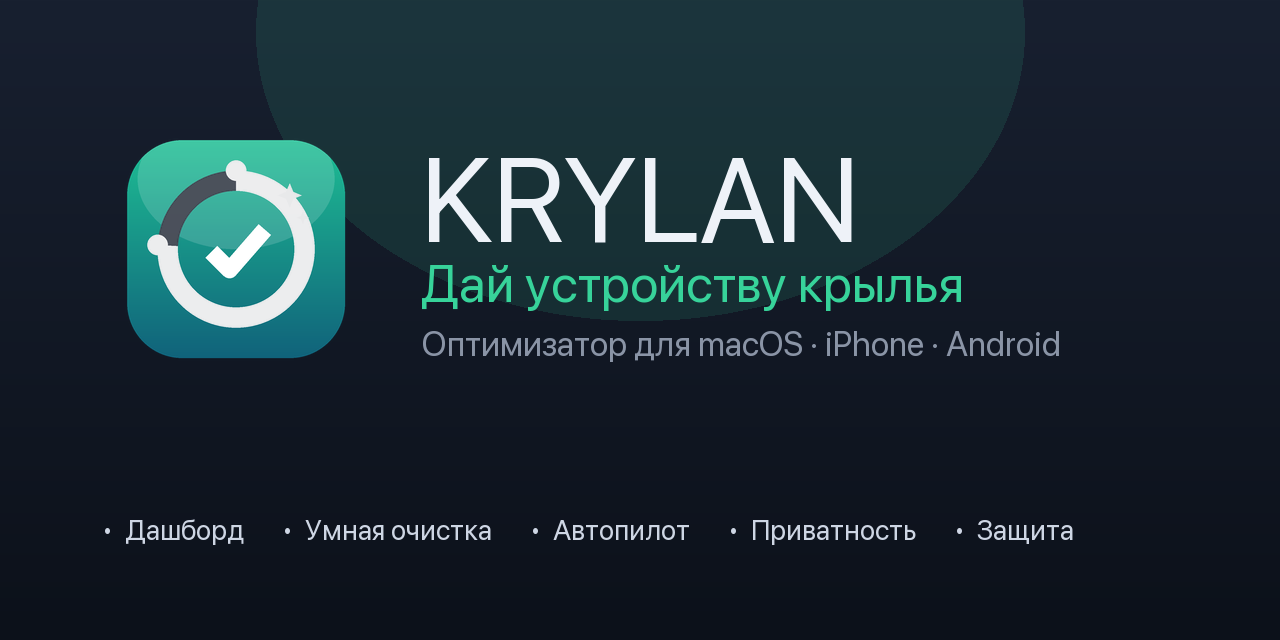
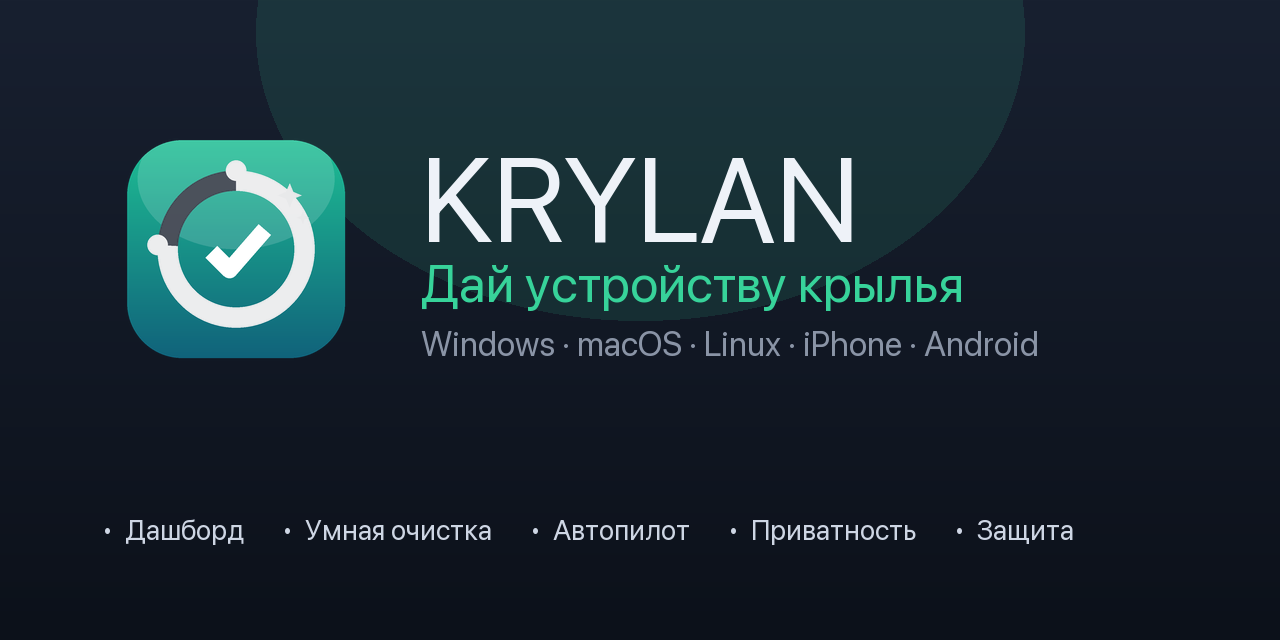
KRYLAN Desktop (Windows/macOS/Linux, psutil) + витрина и доки

Changed region(s): [[0.3125, 0.5, 0.8438, 0.5625]]

diff --git a/docs/index.html b/docs/index.html
@@ -81,7 +81,8 @@
   <section style="padding:18px 0 0">
     <h2 style="text-align:center;font-size:26px;margin-bottom:18px">Экосистема KRYLAN</h2>
     <div class="grid">
-      <div class="card"><div class="e">💻</div><h3>macOS — доступно</h3><p>CleanMac, universal (Intel + Apple Silicon). Полный набор инструментов оптимизации.</p></div>
+      <div class="card"><div class="e">🍏</div><h3>macOS — доступно</h3><p>CleanMac, universal (Intel + Apple Silicon). Полный набор инструментов оптимизации.</p></div>
+      <div class="card"><div class="e">🪟</div><h3>Windows / Linux — доступно</h3><p>KRYLAN Desktop (Python): мониторинг и очистка кэшей. Один код для всех ПК.</p></div>
       <div class="card"><div class="e">📱</div><h3>iPhone — скоро</h3><p>KRYLAN для iOS: дубликаты фото, контакты, анализ хранилища (в рамках политик App Store).</p></div>
       <div class="card"><div class="e">🤖</div><h3>Android — скоро</h3><p>KRYLAN для Android: кэши приложений, крупные файлы, дубликаты.</p></div>
     </div>

diff --git a/krylan-desktop/krylan.py b/krylan-desktop/krylan.py
@@ -1,0 +1,238 @@
+#!/usr/bin/env python3
+# -*- coding: utf-8 -*-
+"""
+KRYLAN Desktop — кросс-платформенный оптимизатор: Windows · macOS · Linux.
+«Дай устройству крылья». Создатель: Кырлан Александр Сергеевич.
+Зависимости: psutil, send2trash.  Запуск: python krylan.py
+"""
+import os, sys, platform, threading, queue, math
+import tkinter as tk
+from tkinter import messagebox
+import psutil
+from send2trash import send2trash
+
+VERSION = "1.0.0"
+SYSTEM = platform.system()           # Windows / Darwin / Linux
+HOME = os.path.expanduser("~")
+
+# ---------- палитра ----------
+BG0, SIDEBAR, GLASS, TRACK, TEXT, MUTED = "#11151d", "#0e1219", "#222b3a", "#333d4e", "#eef2f8", "#8a94a6"
+GREEN, BLUE, YELLOW, RED, PURPLE = "#37d39a", "#4b8cf9", "#f6bb45", "#f2685f", "#a78bfa"
+
+def load_color(p): return GREEN if p < 60 else (YELLOW if p < 85 else RED)
+
+def human(n):
+    n = float(n)
+    for u in ("Б","КБ","МБ","ГБ","ТБ"):
+        if n < 1024 or u == "ТБ":
+            return f"{n:.0f} {u}" if u == "Б" else f"{n:.1f} {u}"
+        n /= 1024
+
+def os_label():
+    return {"Windows":"Windows","Darwin":"macOS","Linux":"Linux"}.get(SYSTEM, SYSTEM)
+
+# ---------- цели очистки по ОС ----------
+def cleanup_targets():
+    t = []
+    if SYSTEM == "Windows":
+        temp = os.environ.get("TEMP") or os.path.join(HOME, "AppData", "Local", "Temp")
+        local = os.environ.get("LOCALAPPDATA") or os.path.join(HOME, "AppData", "Local")
+        t = [("Временные файлы", temp),
+             ("Кэш Google Chrome", os.path.join(local, "Google", "Chrome", "User Data", "Default", "Cache")),
+             ("Кэш Microsoft Edge", os.path.join(local, "Microsoft", "Edge", "User Data", "Default", "Cache")),
+             ("Кэш Windows Explorer", os.path.join(local, "Microsoft", "Windows", "Explorer"))]
+    elif SYSTEM == "Darwin":
+        t = [("Кэш приложений", os.path.join(HOME, "Library/Caches")),
+             ("Логи", os.path.join(HOME, "Library/Logs")),
+             ("Кэш Chrome", os.path.join(HOME, "Library/Caches/Google"))]
+    else:  # Linux
+        t = [("Кэш (~/.cache)", os.path.join(HOME, ".cache")),
+             ("Эскизы", os.path.join(HOME, ".cache/thumbnails")),
+             ("Логи (~/.local/state)", os.path.join(HOME, ".local/state"))]
+    return [(n, p) for n, p in t if os.path.isdir(p)]
+
+def dir_size(p):
+    total = 0
+    try:
+        for root, _, files in os.walk(p):
+            for f in files:
+                try: total += os.path.getsize(os.path.join(root, f))
+                except Exception: pass
+    except Exception: pass
+    return total
+
+
+class Krylan(tk.Tk):
+    def __init__(self):
+        super().__init__()
+        self.title("KRYLAN")
+        self.geometry("860x560"); self.minsize(820, 520)
+        self.configure(bg=BG0)
+        self.q = queue.Queue()
+        self.page = None
+        self.disp = {"cpu":0,"ram":0,"disk":0,"batt":0}
+        self.tgt = dict(self.disp)
+        self.info = {}
+        self.found = {}
+        self._build(); self.nav("dash")
+        threading.Thread(target=self._sampler, daemon=True).start()
+        self.after(80, self._poll); self.after(33, self._animate)
+
+    def _build(self):
+        side = tk.Frame(self, bg=SIDEBAR, width=200); side.pack(side="left", fill="y"); side.pack_propagate(False)
+        tk.Label(side, text="  🪽 KRYLAN", bg=SIDEBAR, fg=TEXT, font=("Segoe UI", 18, "bold")).pack(anchor="w", pady=(20,0), padx=12)
+        tk.Label(side, text="  Дай устройству крылья", bg=SIDEBAR, fg=GREEN, font=("Segoe UI", 9, "bold")).pack(anchor="w", padx=12)
+        tk.Label(side, text=f"  {os_label()} · v{VERSION}", bg=SIDEBAR, fg=MUTED, font=("Segoe UI", 9)).pack(anchor="w", padx=12, pady=(0,16))
+        self.nav_btns = {}
+        for key, label in [("dash","📊  Дашборд"),("clean","🧽  Очистка"),("about","ℹ  О программе")]:
+            b = tk.Label(side, text="   "+label, bg=SIDEBAR, fg=TEXT, font=("Segoe UI", 12), anchor="w", padx=10, pady=11, cursor="hand2")
+            b.pack(fill="x"); b.bind("<Button-1>", lambda e,k=key: self.nav(k)); self.nav_btns[key] = b
+        self.main = tk.Frame(self, bg=BG0); self.main.pack(side="left", fill="both", expand=True)
+
+    def nav(self, key):
+        self.page = key
+        for k,b in self.nav_btns.items(): b.configure(bg=GLASS if k==key else SIDEBAR)
+        for w in self.main.winfo_children(): w.destroy()
+        {"dash":self.show_dash, "clean":self.show_clean, "about":self.show_about}[key]()
+
+    # ---------- кольца ----------
+    def _ring(self, c, cx, cy, r, frac, color, w, val, label):
+        c.create_oval(cx-r,cy-r,cx+r,cy+r, outline=TRACK, width=w)
+        if frac > 0.01:
+            c.create_arc(cx-r,cy-r,cx+r,cy+r, start=90, extent=-frac*359.9, style="arc", outline=color, width=w)
+        c.create_text(cx,cy-3, text=val, fill=TEXT, font=("Segoe UI", 18, "bold"))
+        c.create_text(cx,cy+r+14, text=label, fill=MUTED, font=("Segoe UI", 10))
+
+    def show_dash(self):
+        tk.Label(self.main, text="Дашборд", bg=BG0, fg=TEXT, font=("Segoe UI", 20, "bold")).pack(anchor="w", padx=24, pady=(18,0))
+        tk.Label(self.main, text=f"Система: {os_label()} · в реальном времени", bg=BG0, fg=MUTED, font=("Segoe UI", 10)).pack(anchor="w", padx=24, pady=(0,8))
+        self.cv = tk.Canvas(self.main, bg=BG0, highlightthickness=0); self.cv.pack(fill="both", expand=True, padx=20, pady=10)
+
+    def _draw_dash(self):
+        if not (self.page=="dash" and self.cv.winfo_exists()): return
+        c = self.cv; c.delete("all"); W = c.winfo_width() or 640
+        rings = [("cpu","CPU",f'{int(self.disp["cpu"])}%'),("ram","ОЗУ",f'{int(self.disp["ram"])}%'),
+                 ("disk","ДИСК",f'{int(self.disp["disk"])}%'),("batt","БАТАРЕЯ",
+                  (f'{int(self.disp["batt"])}%' if self.info.get("batt") is not None else "—"))]
+        gap = W/4
+        for i,(k,lbl,val) in enumerate(rings):
+            inv = (k == "batt")
+            p = self.disp[k]; col = load_color(100-p) if inv else load_color(p)
+            self._ring(c, int(gap*i+gap/2), 70, 48, min(1,p/100), col, 12, val, lbl)
+        # карточка инфо
+        c.create_rectangle(20,150,W-20,260, fill=GLASS, outline=GLASS)
+        info = [f"ОС: {self.info.get('os','—')}",
+                f"Диск: свободно {human(self.info.get('disk_free',0))} из {human(self.info.get('disk_total',0))}",
+                f"ОЗУ: {human(self.info.get('ram_total',0))} всего, занято {int(self.disp['ram'])}%",
+                f"CPU: {self.info.get('cores','?')} ядер"]
+        for i,line in enumerate(info):
+            c.create_text(40,175+i*22, anchor="w", fill=TEXT, font=("Segoe UI", 11), text=line)
+        c.configure(scrollregion=(0,0,W,280))
+
+    # ---------- очистка ----------
+    def show_clean(self):
+        tk.Label(self.main, text="Очистка", bg=BG0, fg=TEXT, font=("Segoe UI", 20, "bold")).pack(anchor="w", padx=24, pady=(18,2))
+        tk.Label(self.main, text="Временные файлы и кэши. Всё уходит в Корзину (обратимо).", bg=BG0, fg=MUTED, font=("Segoe UI", 10)).pack(anchor="w", padx=24, pady=(0,10))
+        wrap = tk.Frame(self.main, bg=GLASS); wrap.pack(fill="x", padx=24)
+        self.cl_vars = {}; self.cl_lbl = {}
+        for i,(name,p) in enumerate(cleanup_targets()):
+            row = tk.Frame(wrap, bg=GLASS); row.pack(fill="x", padx=14, pady=6)
+            v = tk.BooleanVar(value=True); self.cl_vars[i] = (v, name, p)
+            tk.Checkbutton(row, text="  "+name, variable=v, bg=GLASS, fg=TEXT, selectcolor=BG0,
+                           activebackground=GLASS, activeforeground=TEXT, font=("Segoe UI", 11), anchor="w").pack(side="left")
+            sl = tk.Label(row, text="…", bg=GLASS, fg=GREEN, font=("Segoe UI", 11, "bold")); sl.pack(side="right"); self.cl_lbl[i] = sl
+        bar = tk.Frame(self.main, bg=BG0); bar.pack(fill="x", padx=24, pady=14)
+        self.cl_total = tk.Label(bar, text="Готово к анализу", bg=BG0, fg=TEXT, font=("Segoe UI", 12, "bold")); self.cl_total.pack(side="left")
+        self._btn(bar, "Очистить", GREEN, self.run_clean).pack(side="right", padx=(8,0))
+        self._btn(bar, "Анализ", BLUE, self.run_analyze).pack(side="right")
+
+    def _btn(self, parent, text, color, cmd):
+        b = tk.Label(parent, text="  "+text+"  ", bg=color, fg="white", font=("Segoe UI", 12, "bold"), padx=14, pady=7, cursor="hand2")
+        b.bind("<Button-1>", lambda e: cmd()); return b
+
+    def run_analyze(self):
+        self.cl_total.configure(text="Анализирую…")
+        threading.Thread(target=self._analyze_w, daemon=True).start()
+
+    def _analyze_w(self):
+        self.found = {}; total = 0
+        for i,(v,name,p) in self.cl_vars.items():
+            sz = dir_size(p); self.found[i] = (p, sz); total += sz
+            self.q.put(("clsize", i, sz))
+        self.q.put(("cltotal", total, None))
+
+    def run_clean(self):
+        if not self.found: messagebox.showinfo("KRYLAN", "Сначала «Анализ»."); return
+        sel = [i for i,(v,n,p) in self.cl_vars.items() if v.get()]
+        if not messagebox.askyesno("KRYLAN", "Переместить выбранные кэши в Корзину?"): return
+        self.cl_total.configure(text="Очищаю…")
+        threading.Thread(target=self._clean_w, args=(sel,), daemon=True).start()
+
+    def _clean_w(self, sel):
+        freed = 0
+        for i in sel:
+            p, sz = self.found.get(i, (None, 0))
+            if not p or not os.path.isdir(p): continue
+            for name in os.listdir(p):
+                fp = os.path.join(p, name)
+                try: send2trash(fp); freed += 0
+                except Exception: pass
+            freed += sz
+        self.q.put(("cldone", freed, None))
+
+    # ---------- о программе ----------
+    def show_about(self):
+        tk.Label(self.main, text="🪽 KRYLAN", bg=BG0, fg=TEXT, font=("Segoe UI", 24, "bold")).pack(anchor="w", padx=24, pady=(26,0))
+        tk.Label(self.main, text="«Дай устройству крылья»", bg=BG0, fg=GREEN, font=("Segoe UI", 13, "bold")).pack(anchor="w", padx=24)
+        for line in [f"Версия {VERSION} · {os_label()}", "Создатель: Кырлан Александр Сергеевич", "",
+                     "Кросс-платформенный оптимизатор: Windows · macOS · Linux.",
+                     "Мониторинг CPU/ОЗУ/диск/батарея и безопасная очистка кэшей",
+                     "(всё уходит в Корзину). Часть экосистемы KRYLAN (+iPhone, Android)."]:
+            tk.Label(self.main, text=line, bg=BG0, fg=(TEXT if "Создатель" in line else MUTED),
+                     font=("Segoe UI", 11)).pack(anchor="w", padx=24)
+
+    # ---------- метрики ----------
+    def _sampler(self):
+        import time
+        vm = psutil.virtual_memory()
+        self.info = {"os": f"{platform.system()} {platform.release()}",
+                     "ram_total": vm.total, "cores": psutil.cpu_count(logical=True)}
+        while True:
+            try:
+                cpu = psutil.cpu_percent(interval=0.5)
+                ram = psutil.virtual_memory().percent
+                du = psutil.disk_usage(HOME if SYSTEM != "Windows" else os.environ.get("SystemDrive", "C:") + "\\")
+                b = psutil.sensors_battery()
+                self.q.put(("stats", {"cpu":cpu,"ram":ram,"disk":du.percent,
+                            "batt": (b.percent if b else None),
+                            "disk_free": du.free, "disk_total": du.total}, None))
+            except Exception: pass
+            time.sleep(1.2)
+
+    def _animate(self):
+        if self.page=="dash" and hasattr(self,"cv") and self.cv.winfo_exists():
+            for k in self.disp: self.disp[k] += (self.tgt[k]-self.disp[k])*0.25
+            self._draw_dash()
+        self.after(33, self._animate)
+
+    def _poll(self):
+        try:
+            while True:
+                kind,a,b = self.q.get_nowait()
+                if kind == "stats":
+                    self.tgt.update({"cpu":a["cpu"],"ram":a["ram"],"disk":a["disk"],"batt":a["batt"] or 0})
+                    self.info["batt"] = a["batt"]; self.info["disk_free"]=a["disk_free"]; self.info["disk_total"]=a["disk_total"]
+                    self.info["os"] = self.info.get("os","")
+                elif kind == "clsize":
+                    if a in self.cl_lbl: self.cl_lbl[a].configure(text=human(b))
+                elif kind == "cltotal": self.cl_total.configure(text=f"Найдено: {human(a)}")
+                elif kind == "cldone":
+                    self.cl_total.configure(text=f"Очищено: {human(a)} → Корзина")
+                    messagebox.showinfo("KRYLAN", f"В Корзину: {human(a)}."); self.found = {}
+        except queue.Empty: pass
+        except Exception: pass
+        self.after(120, self._poll)
+
+
+if __name__ == "__main__":
+    Krylan().mainloop()

diff --git a/make_promo.py b/make_promo.py
@@ -44,7 +44,7 @@ def banner(w, h, out, title_sz, slogan_sz, with_features=True):
     d.text((tx, iy + int(isz*0.04) + int(title_sz*1.05)), "Дай устройству крылья",
            font=font(slogan_sz), fill=(55, 211, 154))
     d.text((tx, iy + int(isz*0.04) + int(title_sz*1.05) + int(slogan_sz*1.4)),
-           "Оптимизатор для macOS · iPhone · Android", font=font(int(slogan_sz*0.66)), fill=(138, 148, 166))
+           "Windows · macOS · Linux · iPhone · Android", font=font(int(slogan_sz*0.66)), fill=(138, 148, 166))
     if with_features:
         feats = ["Дашборд", "Умная очистка", "Автопилот", "Приватность", "Защита"]
         fy = int(h*0.80); fx = int(w*0.08); fnt = font(int(h*0.045))

diff --git a/krylan-desktop/README.md b/krylan-desktop/README.md
@@ -1,0 +1,46 @@
+# 🪽 KRYLAN Desktop — Windows · macOS · Linux
+
+Кросс-платформенный оптимизатор: мониторинг CPU/ОЗУ/диск/батарея и безопасная
+очистка кэшей (всё в Корзину). Один код для всех компьютеров.
+Создатель: **Кырлан Александр Сергеевич**.
+
+## Запуск (любая ОС)
+```bash
+pip install -r requirements.txt
+python krylan.py
+```
+Нужен **Python 3.9+** (на Windows — с python.org, «Add to PATH»).
+
+## Сборка standalone
+
+### Windows (.exe)
+```bat
+pip install pyinstaller
+pyinstaller --onefile --windowed --name KRYLAN --icon ..\CleanMac.icns krylan.py
+:: результат: dist\KRYLAN.exe — запускается на любом Windows без Python
+```
+> Для иконки на Windows нужен `.ico` (сконвертируй из `icon_1024.png`).
+> Без подписи Windows SmartScreen покажет «Запустить всё равно».
+
+### macOS (.app/.dmg)
+```bash
+pyinstaller --onefile --windowed --name KRYLAN --icon ../CleanMac.icns krylan.py
+```
+
+### Linux
+```bash
+pyinstaller --onefile --name krylan krylan.py   # ./dist/krylan
+```
+
+## Что внутри
+- **Дашборд** — кольца CPU/ОЗУ/Диск/Батарея (psutil), инфо об ОС/диске/памяти.
+- **Очистка** — временные файлы и кэши, **зависят от ОС**:
+  - Windows: `%TEMP%`, кэш Chrome/Edge/Explorer
+  - macOS: `~/Library/Caches`, `~/Library/Logs`
+  - Linux: `~/.cache`, эскизы
+  - Удаление через **send2trash** (системная Корзина).
+- **О программе** — бренд, автор, версия.
+
+## Полная версия для macOS
+На macOS богаче нативный **CleanMac** (../README.md): автопилот, защита,
+деинсталлятор, карта диска и т.д. KRYLAN Desktop — лёгкий кросс-платформенный вариант.

diff --git a/README.md b/README.md
@@ -9,7 +9,7 @@
 **Красивый оптимизатор со «стеклянным» интерфейсом.**
 Дашборд с диаграммами, автопилот, безопасная очистка — мощнее CCleaner, бесплатно и с открытым кодом.
 
-**Экосистема KRYLAN:** macOS (доступно) · iPhone · Android (в разработке).
+**Экосистема KRYLAN:** macOS · **Windows · Linux** (доступно) · iPhone · Android (в разработке).
 **Создатель:** Кырлан Александр Сергеевич.
 
 ![version](https://img.shields.io/badge/version-2.0.0-37d39a)
@@ -49,6 +49,7 @@
 |---|---|---|
 | `.` (корень) | **CleanMac** — оптимизатор macOS (Python/tkinter) | этот файл |
 | `menubar.py` | мини-монитор в строке меню (rumps) | — |
+| `krylan-desktop/` | **Windows · macOS · Linux** (Python/psutil) | [README](krylan-desktop/README.md) |
 | `krylan-swift/` | каркас **iOS + macOS** (SwiftUI) | [README](krylan-swift/README.md) |
 | `krylan-android/` | каркас **Android** (Kotlin + Compose) | [README](krylan-android/README.md) |
 | `tests/` | юнит-тесты | [README](tests/README.md) |

diff --git a/ROADMAP.md b/ROADMAP.md
@@ -16,6 +16,8 @@
 
 Вывод: на телефонах — **другой, более лёгкий продукт** под тем же брендом, не порт Mac-версии.
 
+**Desktop (Windows · macOS · Linux):** реализовано в `krylan-desktop/` (Python + psutil) — мониторинг и очистка кэшей.
+
 ---
 
 ## 1. macOS (CleanMac) — есть, нужна полировка
@@ -38,6 +40,10 @@
 - [ ] macOS-таргет SwiftUI: перенести функции из Python-версии (постепенно)
 - [ ] Apple Developer Program ($99/год) — для TestFlight и публикации
 - [ ] Иконки всех размеров (Assets.xcassets) под бренд KRYLAN
+
+## 3.5. Desktop (Windows / Linux) — ГОТОВО
+- [x] KRYLAN Desktop (Python/psutil): дашборд + очистка кэшей, send2trash
+- [x] Сборка PyInstaller: .exe (Windows) / .app / бинарь Linux (см. README)
 
 ## 3. Android (Kotlin + Jetpack Compose) — отдельный проект
 - [~] Android: структура + Gradle готовы; открыть в Android Studio и Sync
